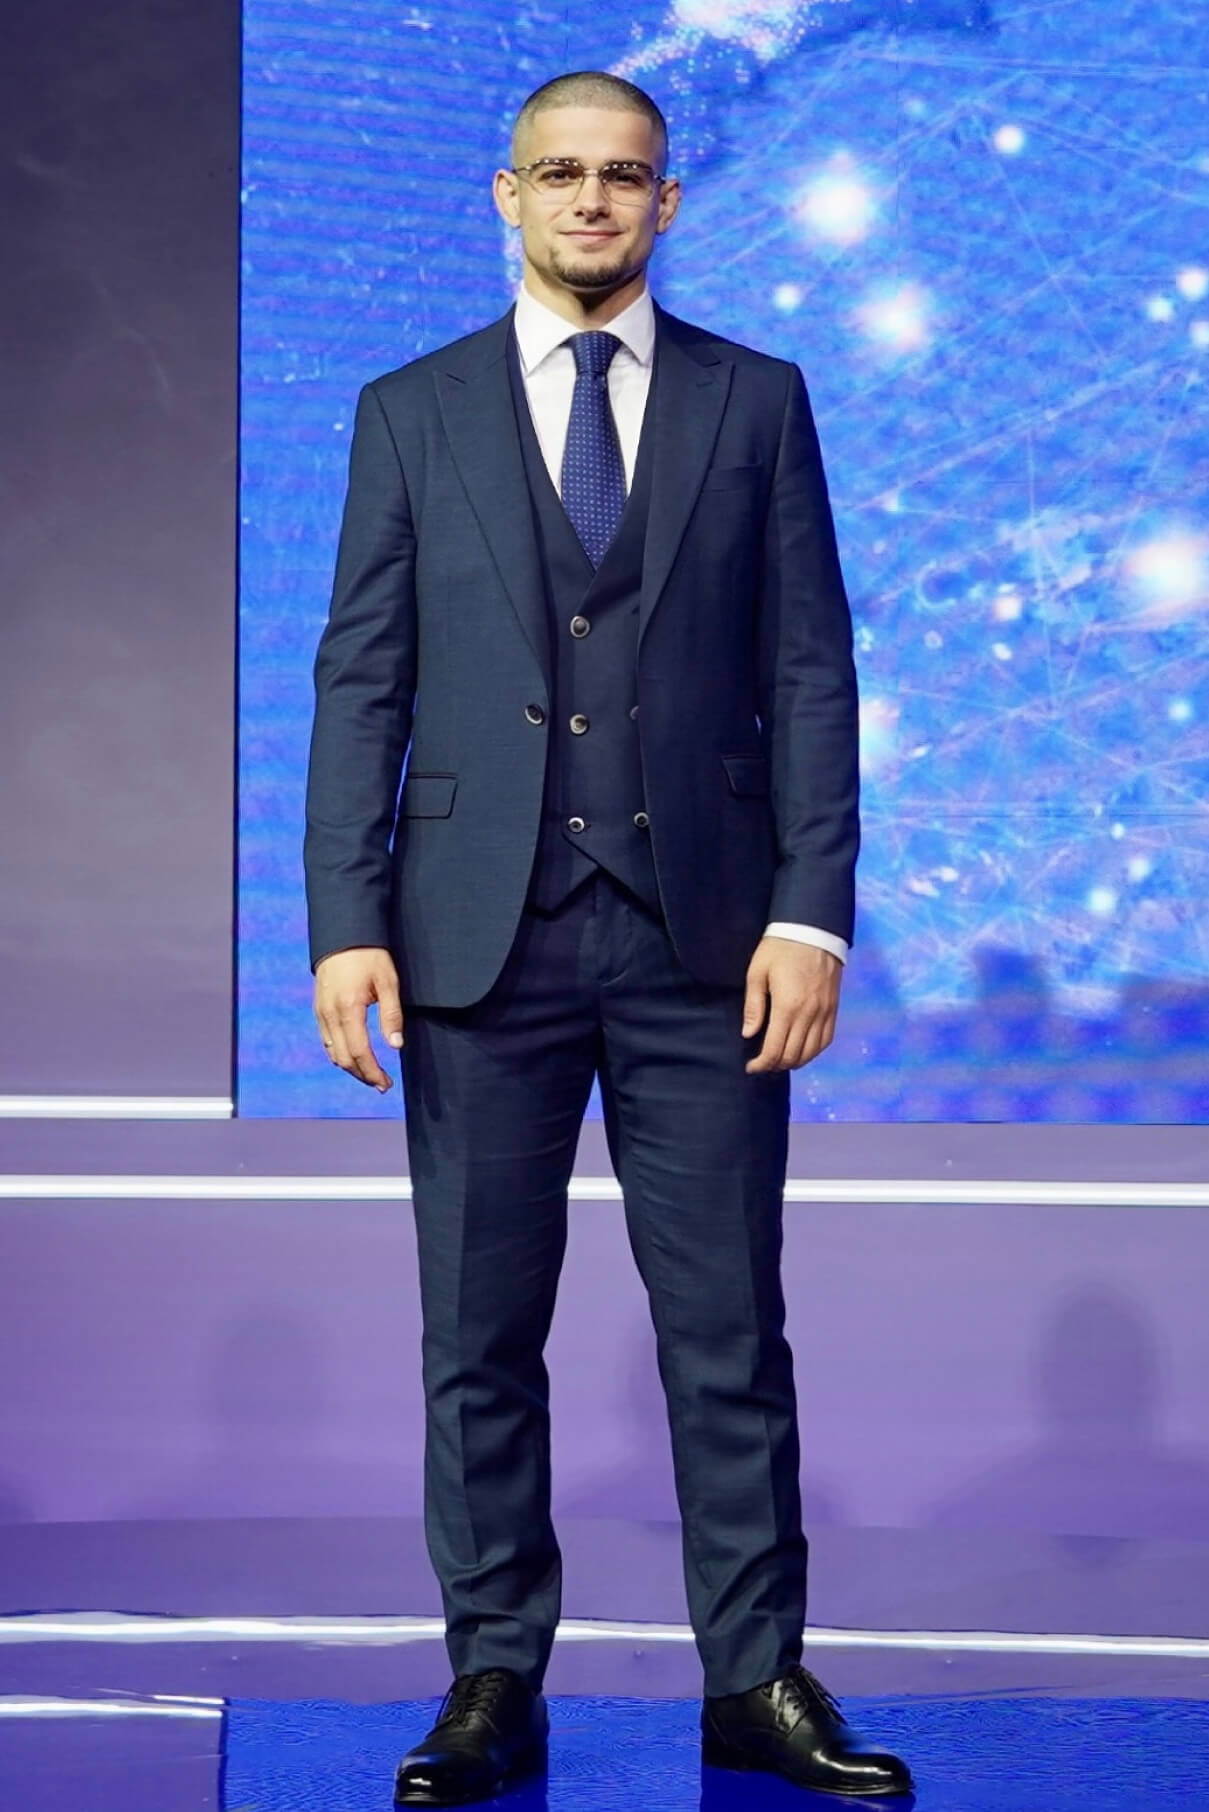
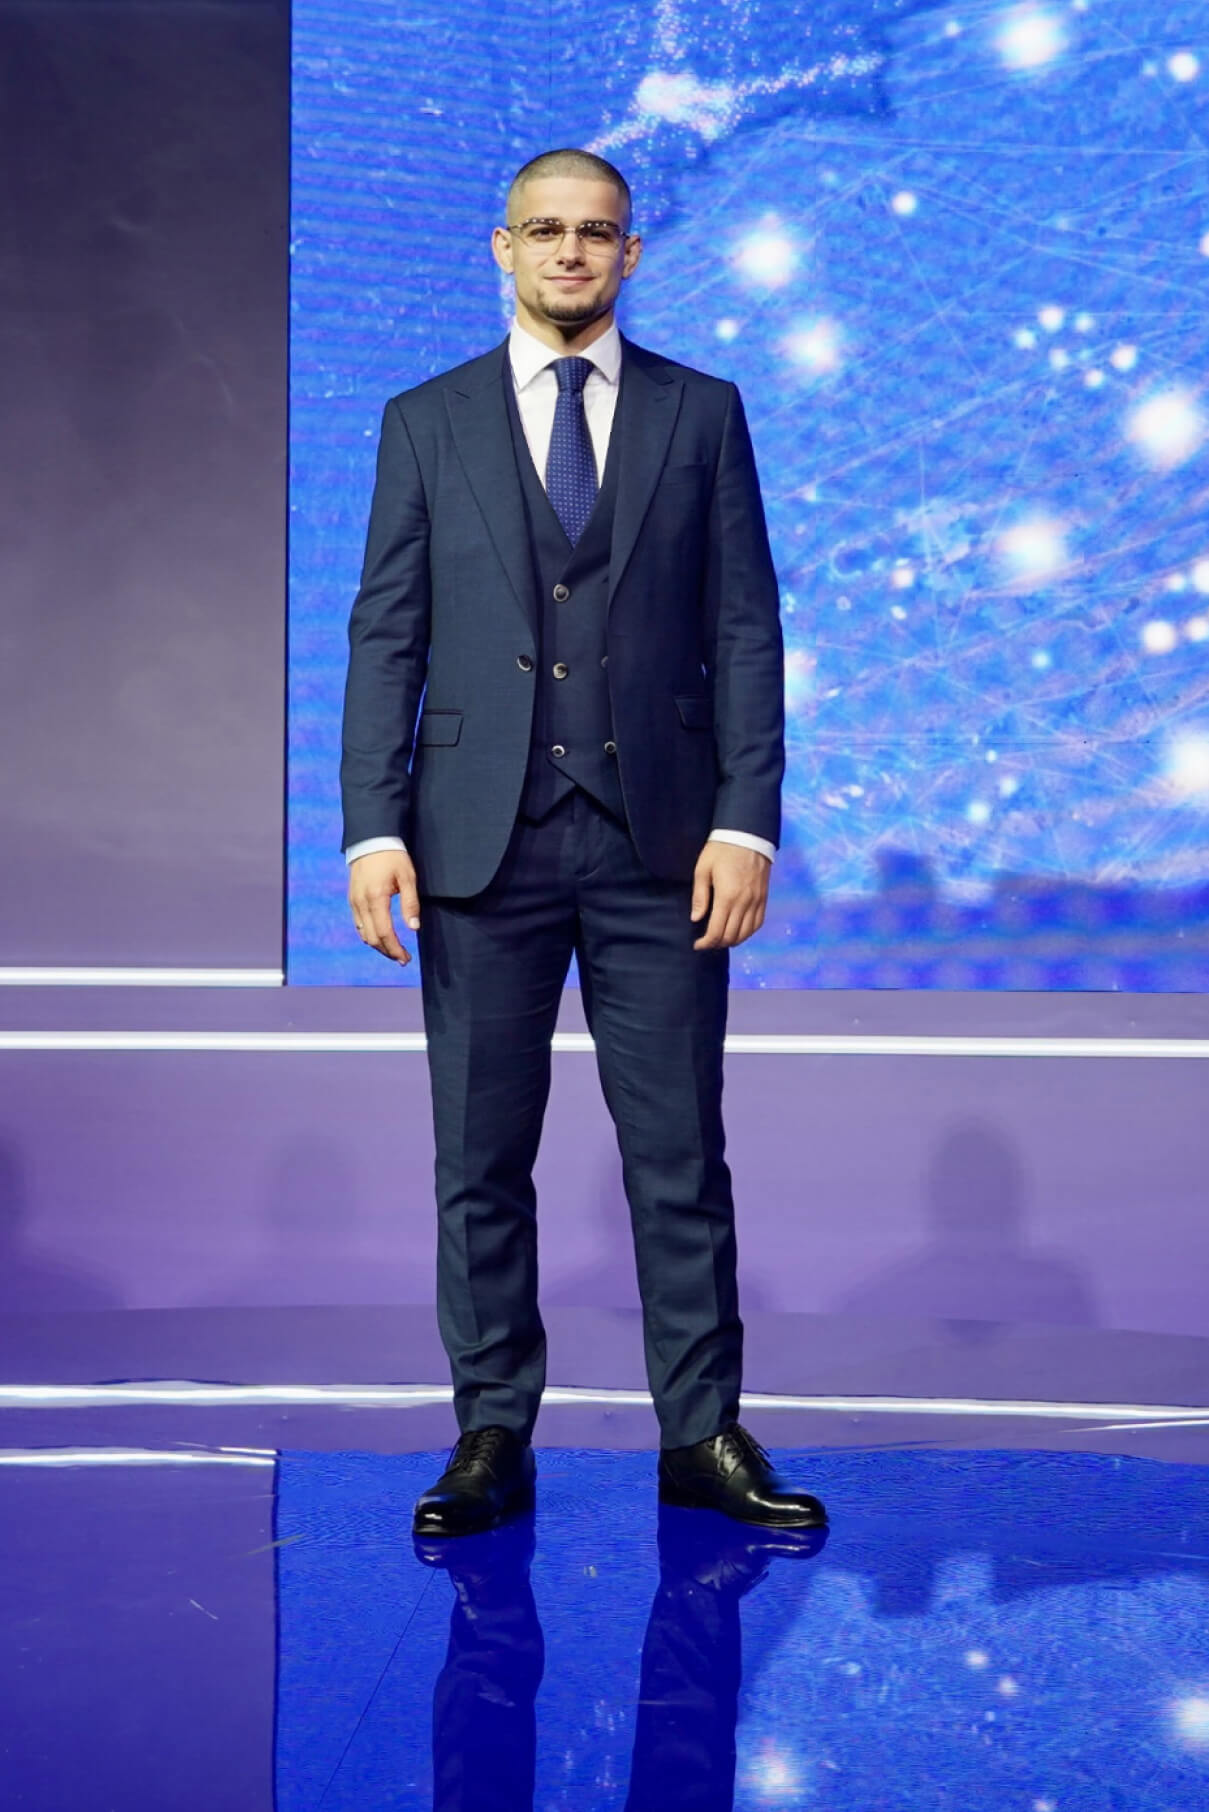
[Feat] Change author photo + responsive

diff --git a/src/pages/home/ui/authorship-section/authorship-section.component.tsx b/src/pages/home/ui/authorship-section/authorship-section.component.tsx
@@ -17,7 +17,7 @@ const AuthorshipSection = ({ className }: AuthorshipSectionProps) => {
     title: t('authorship.title'),
     subtitle: t('authorship.subtitle'),
     description: t('authorship.description'),
-    image: '/static/images/content/authorship-section/author.jpg?d=13092024-1838',
+    image: '/static/images/content/authorship-section/author.jpg?d=16092024-2307',
     interview: {
       src: '/static/images/content/authorship-section/interview.jpg',
       videoId: 'bNzsW7iouSU',
@@ -28,7 +28,7 @@ const AuthorshipSection = ({ className }: AuthorshipSectionProps) => {
     <section id="authorship" className={clsx('py-56 md:py-88 bg-dark-500', className)}>
       <div className="container">
         <div className="row gy-32 justify-between">
-          <div className="col-12 md:col-5 lg:col-4">
+          <div className="col-12 md:col-6 lg:col-5 xl:col-4">
             <div className="sticky top-60 lg:top-80 ">
               <div className="aspect-w-[403] aspect-h-[604] max-xsl:min-w-container-min max-xsl:left-1/2 max-xsl:-translate-x-1/2">
                 <img
@@ -56,7 +56,7 @@ const AuthorshipSection = ({ className }: AuthorshipSectionProps) => {
               </div>
             </div>
           </div>
-          <div className="col-12 md:col-7 lg:col-8 lp:col-7">
+          <div className="col-12 md:col-6 lg:col-7 xl:col-8 lp:col-7">
             <div className="min-h-full flex flex-col justify-between">
               <div className="flex-grow min-h-0">
                 <h2 className="text-40px md:text-56px">{data.title}</h2>
